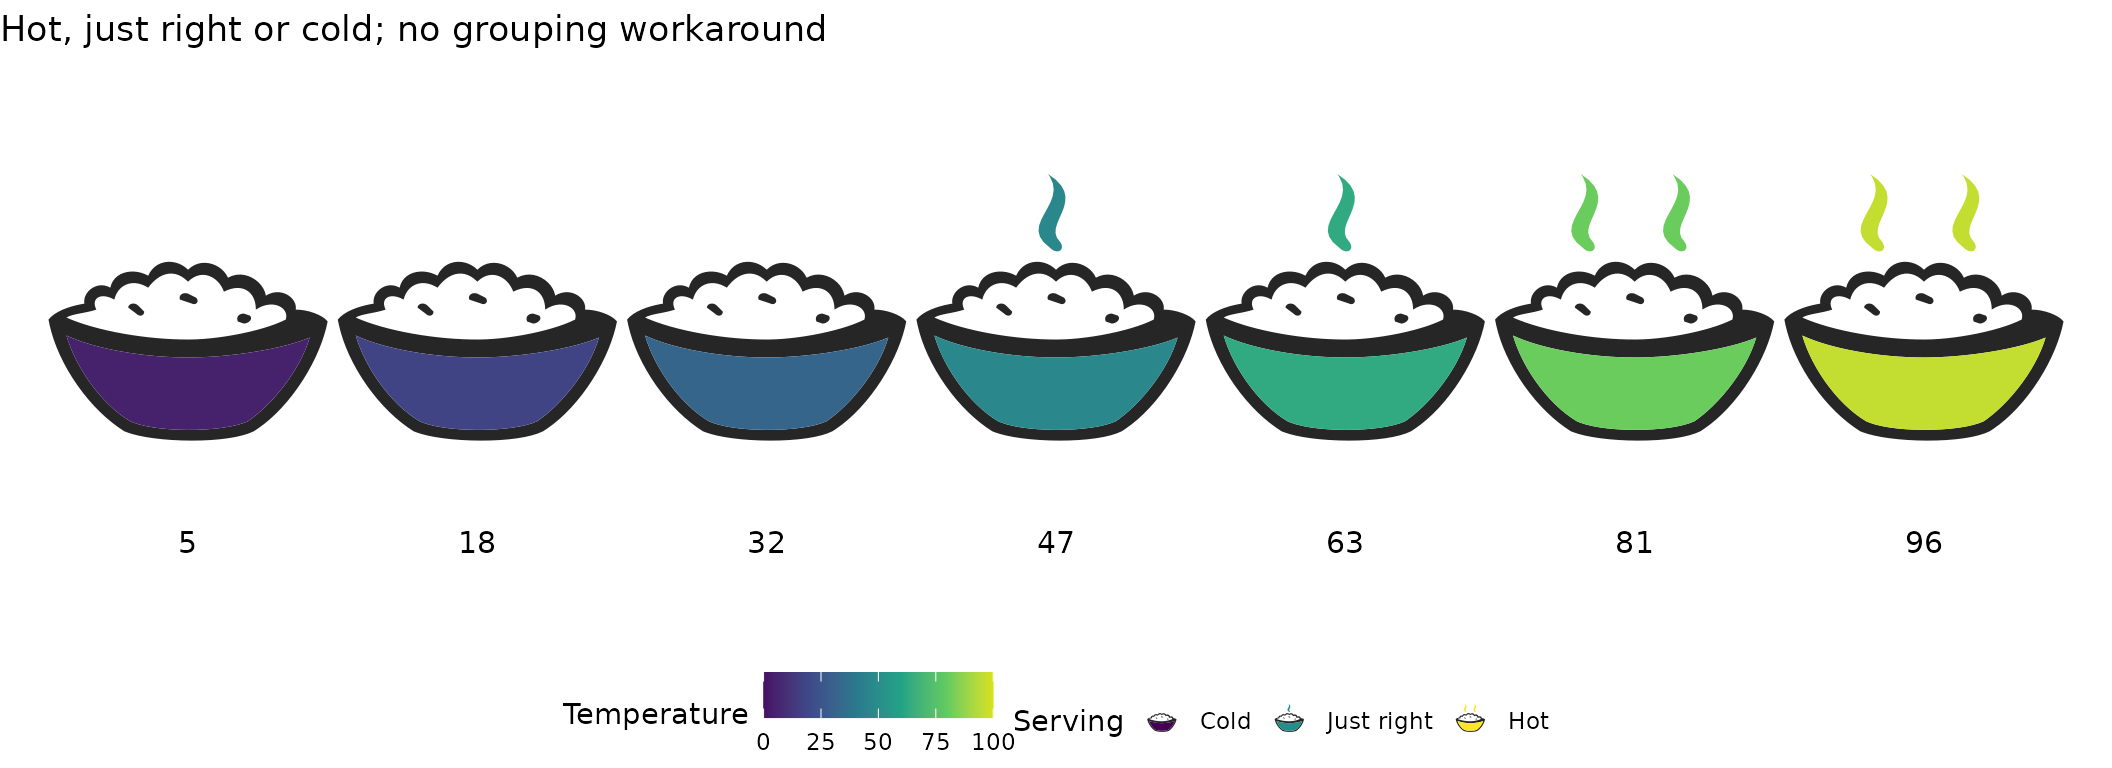
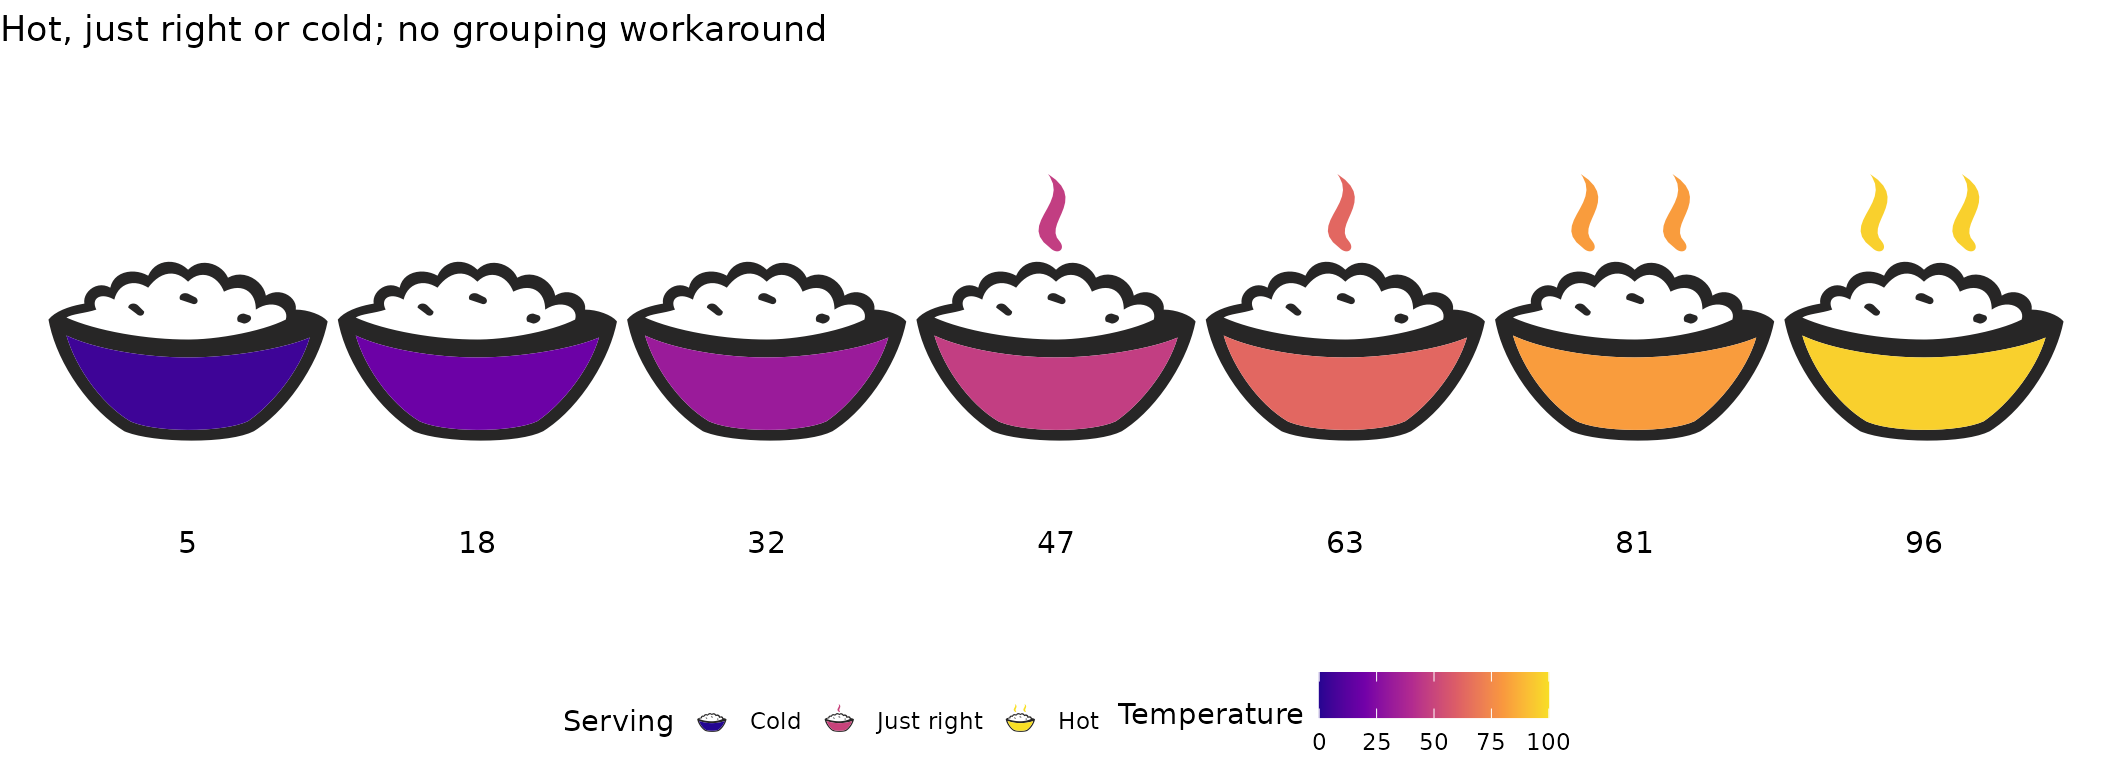
Deploying to gh-pages from @ cgoo4/ggfoundry@b6100e7706757817ebff94d23176d32280eb5084 🚀

diff --git a/articles/ggfoundry.html b/articles/ggfoundry.html
@@ -258,11 +258,13 @@ remains visible.</p>
 <span>  <span class="fu"><a href="https://ggplot2.tidyverse.org/reference/scale_manual.html" class="external-link">scale_shape_manual</a></span><span class="op">(</span></span>
 <span>    values <span class="op">=</span> <span class="fu"><a href="https://rdrr.io/r/base/c.html" class="external-link">c</a></span><span class="op">(</span><span class="st">"bowl0"</span>, <span class="st">"bowl1"</span>, <span class="st">"bowl2"</span><span class="op">)</span>,</span>
 <span>    guide <span class="op">=</span> <span class="fu"><a href="https://ggplot2.tidyverse.org/reference/guide_legend.html" class="external-link">guide_legend</a></span><span class="op">(</span></span>
-<span>      override.aes <span class="op">=</span> <span class="fu"><a href="https://rdrr.io/r/base/list.html" class="external-link">list</a></span><span class="op">(</span>fill <span class="op">=</span> <span class="fu"><a href="https://rdrr.io/r/base/c.html" class="external-link">c</a></span><span class="op">(</span><span class="st">"#440154"</span>, <span class="st">"#21908C"</span>, <span class="st">"#FDE725"</span><span class="op">)</span><span class="op">)</span>,</span>
+<span>      override.aes <span class="op">=</span> <span class="fu"><a href="https://rdrr.io/r/base/list.html" class="external-link">list</a></span><span class="op">(</span>fill <span class="op">=</span> <span class="fu"><a href="https://rdrr.io/r/base/c.html" class="external-link">c</a></span><span class="op">(</span><span class="st">"#240691"</span>, <span class="st">"#C8437B"</span>, <span class="st">"#F8DF25"</span><span class="op">)</span><span class="op">)</span>,</span>
 <span>      keyheight <span class="op">=</span> <span class="fu"><a href="https://rdrr.io/r/grid/unit.html" class="external-link">unit</a></span><span class="op">(</span><span class="fl">2.5</span>, <span class="st">"lines"</span><span class="op">)</span>, default.unit <span class="op">=</span> <span class="st">"line"</span></span>
 <span>    <span class="op">)</span></span>
 <span>  <span class="op">)</span> <span class="op">+</span></span>
-<span>  <span class="fu"><a href="https://ggplot2.tidyverse.org/reference/scale_viridis.html" class="external-link">scale_fill_viridis_c</a></span><span class="op">(</span>limits <span class="op">=</span> <span class="fu"><a href="https://rdrr.io/r/base/c.html" class="external-link">c</a></span><span class="op">(</span><span class="fl">0</span>, <span class="fl">100</span><span class="op">)</span>, begin <span class="op">=</span> <span class="fl">0.04</span>, end <span class="op">=</span> <span class="fl">0.94</span><span class="op">)</span> <span class="op">+</span></span>
+<span>  <span class="fu"><a href="https://ggplot2.tidyverse.org/reference/scale_viridis.html" class="external-link">scale_fill_viridis_c</a></span><span class="op">(</span></span>
+<span>    limits <span class="op">=</span> <span class="fu"><a href="https://rdrr.io/r/base/c.html" class="external-link">c</a></span><span class="op">(</span><span class="fl">0</span>, <span class="fl">100</span><span class="op">)</span>, begin <span class="op">=</span> <span class="fl">0.04</span>, end <span class="op">=</span> <span class="fl">0.94</span>, option <span class="op">=</span> <span class="st">"plasma"</span></span>
+<span>  <span class="op">)</span> <span class="op">+</span></span>
 <span>  <span class="fu"><a href="https://ggplot2.tidyverse.org/reference/scale_continuous.html" class="external-link">scale_x_continuous</a></span><span class="op">(</span>limits <span class="op">=</span> <span class="fu"><a href="https://rdrr.io/r/base/c.html" class="external-link">c</a></span><span class="op">(</span><span class="fl">0.35</span>, <span class="fl">7.65</span><span class="op">)</span>, expand <span class="op">=</span> <span class="fu"><a href="https://ggplot2.tidyverse.org/reference/expansion.html" class="external-link">expansion</a></span><span class="op">(</span>mult <span class="op">=</span> <span class="fl">0</span><span class="op">)</span><span class="op">)</span> <span class="op">+</span></span>
 <span>  <span class="fu"><a href="https://ggplot2.tidyverse.org/reference/scale_continuous.html" class="external-link">scale_y_continuous</a></span><span class="op">(</span>limits <span class="op">=</span> <span class="fu"><a href="https://rdrr.io/r/base/c.html" class="external-link">c</a></span><span class="op">(</span><span class="fl">0</span>, <span class="fl">1.85</span><span class="op">)</span>, expand <span class="op">=</span> <span class="fu"><a href="https://ggplot2.tidyverse.org/reference/expansion.html" class="external-link">expansion</a></span><span class="op">(</span>mult <span class="op">=</span> <span class="fl">0</span><span class="op">)</span><span class="op">)</span> <span class="op">+</span></span>
 <span>  <span class="fu"><a href="https://ggplot2.tidyverse.org/reference/labs.html" class="external-link">labs</a></span><span class="op">(</span></span>

diff --git a/articles/ggfoundry.md b/articles/ggfoundry.md
@@ -180,11 +180,13 @@ bowls |>
   scale_shape_manual(
     values = c("bowl0", "bowl1", "bowl2"),
     guide = guide_legend(
-      override.aes = list(fill = c("#440154", "#21908C", "#FDE725")),
+      override.aes = list(fill = c("#240691", "#C8437B", "#F8DF25")),
       keyheight = unit(2.5, "lines"), default.unit = "line"
     )
   ) +
-  scale_fill_viridis_c(limits = c(0, 100), begin = 0.04, end = 0.94) +
+  scale_fill_viridis_c(
+    limits = c(0, 100), begin = 0.04, end = 0.94, option = "plasma"
+  ) +
   scale_x_continuous(limits = c(0.35, 7.65), expand = expansion(mult = 0)) +
   scale_y_continuous(limits = c(0, 1.85), expand = expansion(mult = 0)) +
   labs(
